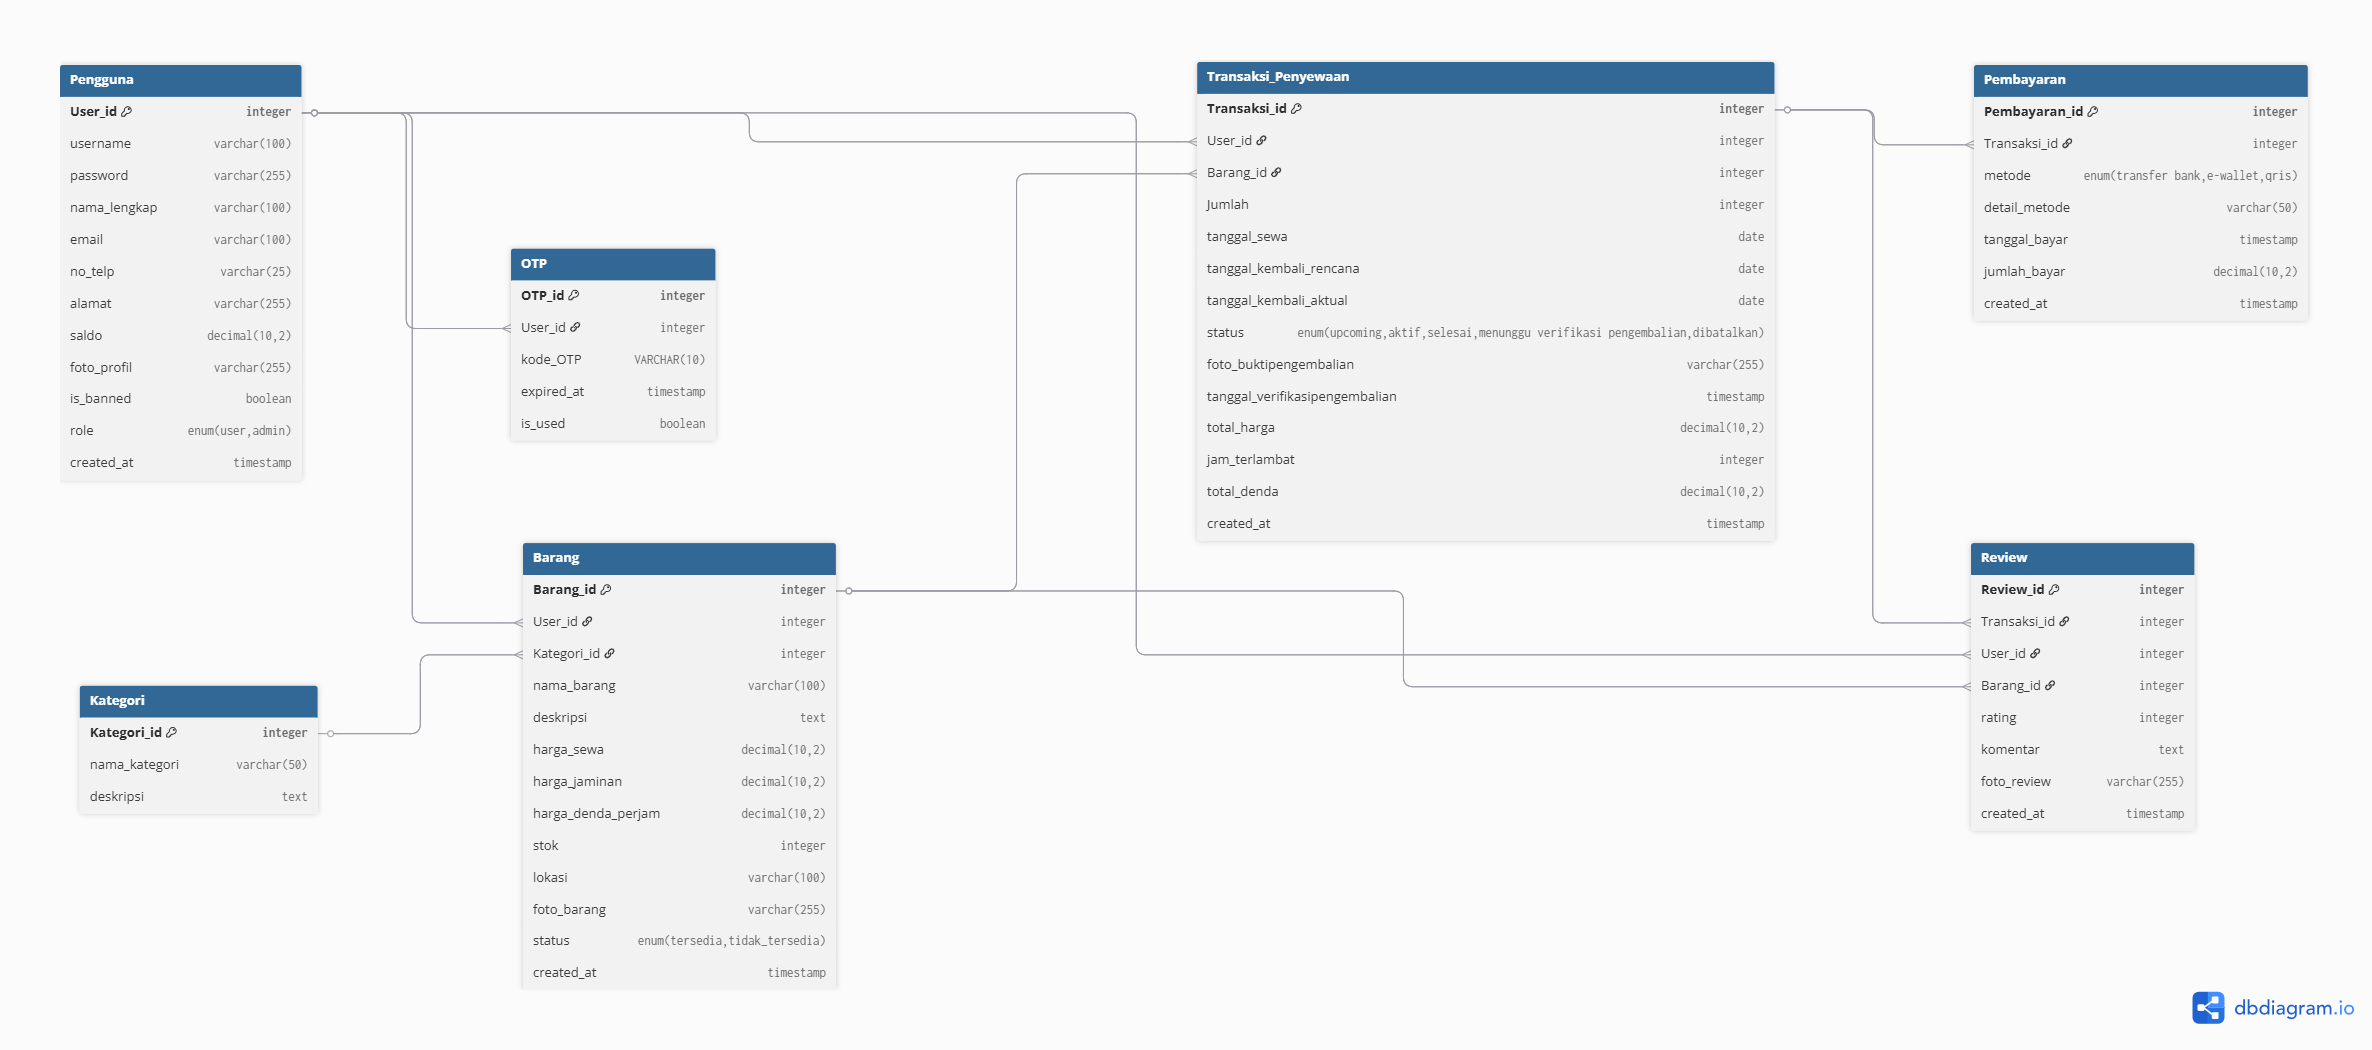
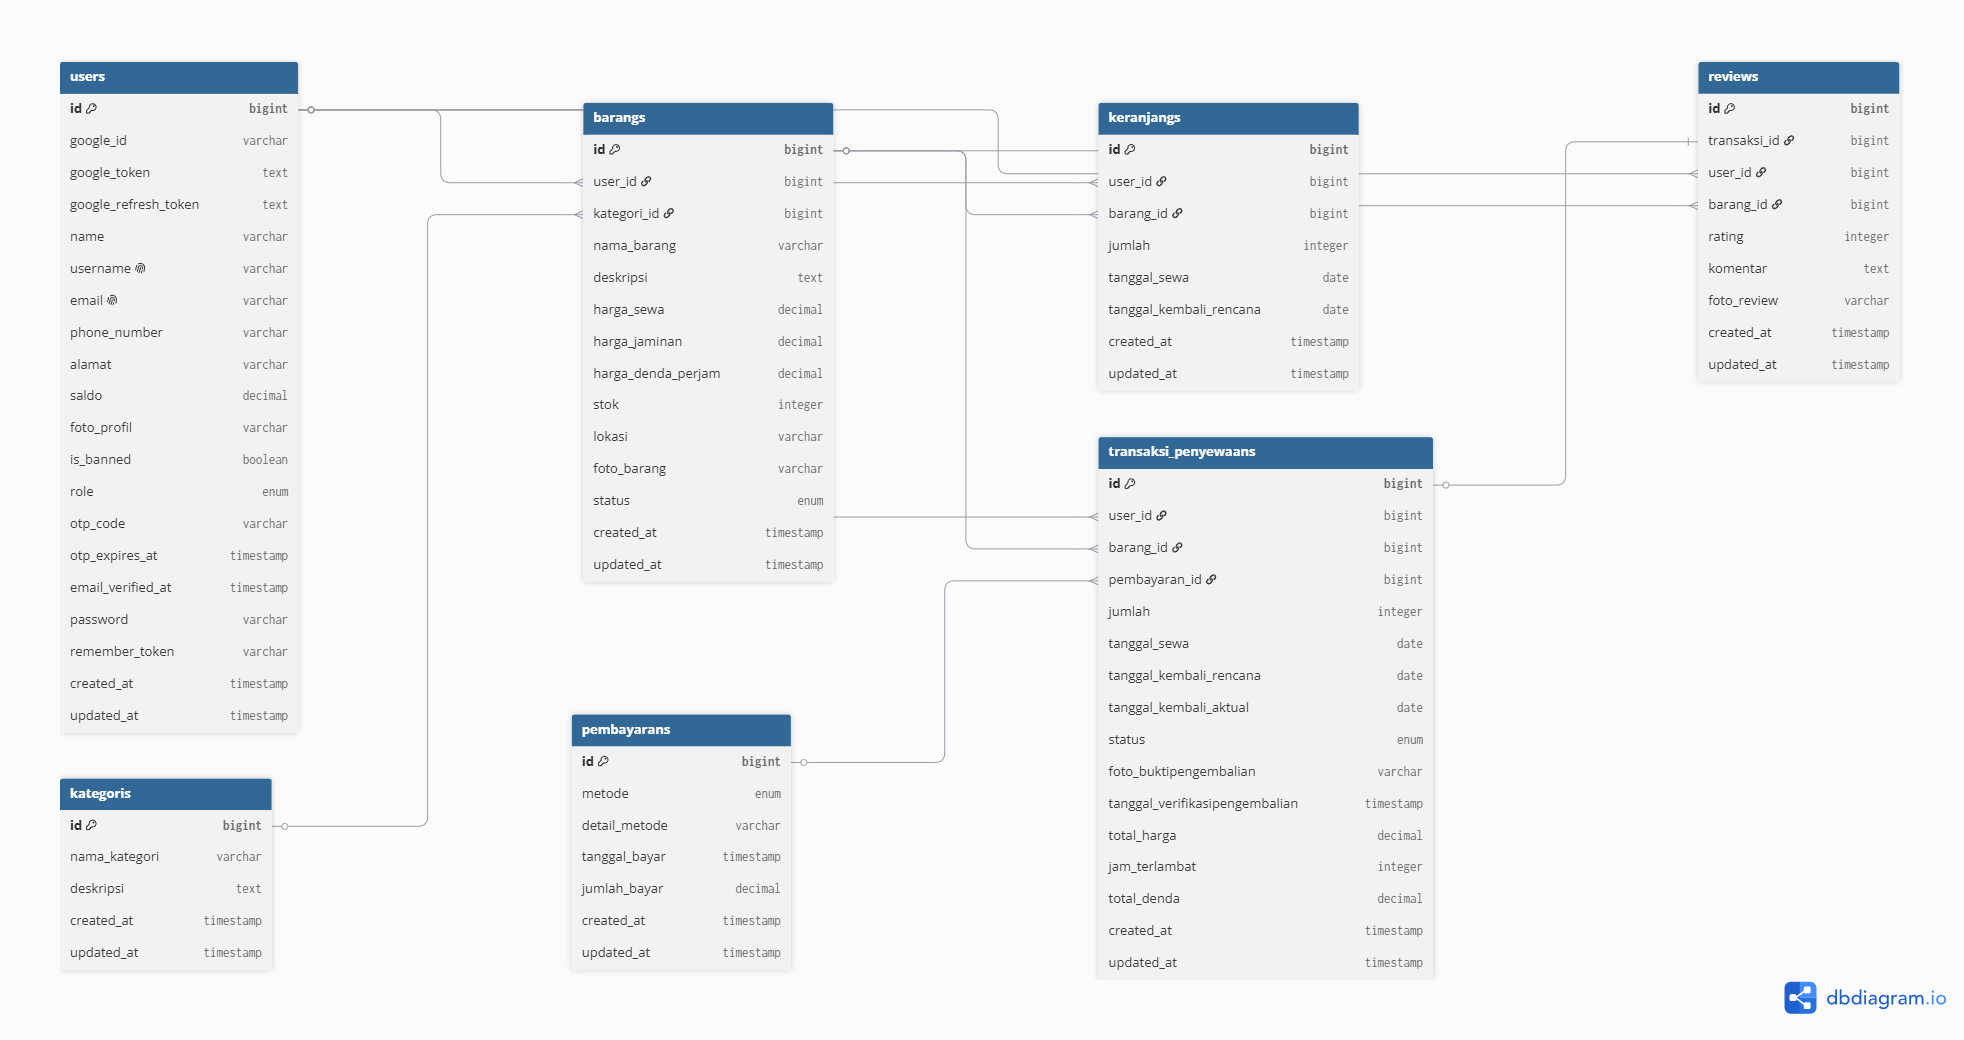
Update ERD and Data Dictionary

diff --git a/docs/data-dictionary.md b/docs/data-dictionary.md
@@ -1,122 +1,163 @@
 # Data Dictionary – Sistem Penyewaan Barang
 
-## Tabel: Pengguna
+---
+
+## Tabel: users
+
+Menyimpan data semua pengguna sistem, termasuk autentikasi Google OAuth dan OTP.
 
 | Kolom | Tipe Data | Constraint | Keterangan |
-|------|----------|-----------|-----------|
-| User_id | INT | PK, AUTO_INCREMENT | ID unik pengguna |
-| username | VARCHAR(100) | NOT NULL | Username pengguna |
-| password | VARCHAR(255) | NOT NULL | Password (hash bcrypt) |
-| nama_lengkap | VARCHAR(100) | NOT NULL | Nama lengkap |
-| email | VARCHAR(100) | UNIQUE, NOT NULL | Email login |
-| no_telp | VARCHAR(25) | NOT NULL | Nomor telepon |
-| alamat | VARCHAR(255) | NOT NULL | Alamat pengguna |
-| saldo | DECIMAL(10,2) | DEFAULT 0 | Saldo simulasi |
-| foto_profil | VARCHAR(255) | NULL | Foto profil |
-| is_banned | BOOLEAN | DEFAULT FALSE | Status banned akun user |
-| role | ENUM | DEFAULT 'user' | Role user/admin |
+|-------|-----------|------------|------------|
+| id | BIGINT | PK, AUTO_INCREMENT | ID unik pengguna |
+| google_id | VARCHAR | NULL | ID akun Google (OAuth) |
+| google_token | TEXT | NULL | Token akses Google OAuth |
+| google_refresh_token | TEXT | NULL | Refresh token Google OAuth |
+| name | VARCHAR | NOT NULL | Nama lengkap pengguna |
+| username | VARCHAR | UNIQUE, NOT NULL | Username pengguna |
+| email | VARCHAR | UNIQUE, NOT NULL | Email login |
+| phone_number | VARCHAR | NOT NULL | Nomor telepon |
+| alamat | VARCHAR | NOT NULL | Alamat pengguna |
+| saldo | DECIMAL | DEFAULT 0 | Saldo simulasi pembayaran |
+| foto_profil | VARCHAR | NULL | Foto profil pengguna |
+| is_banned | BOOLEAN | DEFAULT FALSE | Status banned akun |
+| role | ENUM | DEFAULT 'user' | Role: user / admin |
+| otp_code | VARCHAR | NULL | Kode OTP verifikasi email |
+| otp_expires_at | TIMESTAMP | NULL | Waktu kadaluarsa OTP |
+| email_verified_at | TIMESTAMP | NULL | Waktu verifikasi email |
+| password | VARCHAR | NULL | Password (hash bcrypt); NULL jika login via Google |
+| remember_token | VARCHAR | NULL | Token remember me (session) |
 | created_at | TIMESTAMP | DEFAULT CURRENT_TIMESTAMP | Waktu registrasi |
+| updated_at | TIMESTAMP | DEFAULT CURRENT_TIMESTAMP | Waktu update terakhir |
 
 ---
 
-## Tabel: Kategori
+## Tabel: kategoris
+
+Menyimpan kategori barang yang tersedia untuk disewakan.
 
 | Kolom | Tipe Data | Constraint | Keterangan |
-|------|----------|-----------|-----------|
-| Kategori_id | INT | PK, AUTO_INCREMENT | ID kategori |
-| nama_kategori | VARCHAR(50) | NOT NULL | Nama kategori |
-| deskripsi | TEXT | NULL | Deskripsi |
+|-------|-----------|------------|------------|
+| id | BIGINT | PK, AUTO_INCREMENT | ID unik kategori |
+| nama_kategori | VARCHAR | NOT NULL | Nama kategori barang |
+| deskripsi | TEXT | NULL | Deskripsi kategori |
+| created_at | TIMESTAMP | DEFAULT CURRENT_TIMESTAMP | Waktu data dibuat |
+| updated_at | TIMESTAMP | DEFAULT CURRENT_TIMESTAMP | Waktu update terakhir |
 
 ---
 
-## Tabel: Barang
+## Tabel: barangs
+
+Menyimpan data barang yang ditawarkan untuk disewakan oleh pengguna (pemilik).
 
 | Kolom | Tipe Data | Constraint | Keterangan |
-|------|----------|-----------|-----------|
-| Barang_id | INT | PK, AUTO_INCREMENT | ID barang |
-| User_id | INT | FK, NOT NULL | Pemilik barang |
-| Kategori_id | INT | FK, NOT NULL | Kategori barang |
-| nama_barang | VARCHAR(100) | NOT NULL | Nama barang |
-| deskripsi | TEXT | NOT NULL | Deskripsi |
-| harga_sewa | DECIMAL(10,2) | NOT NULL | Harga sewa |
-| harga_jaminan | DECIMAL(10,2) | NOT NULL | Uang jaminan |
-| harga_denda_perjam | DECIMAL(10,2) | NOT NULL | Denda per jam |
-| stok | INT | DEFAULT 1 | Jumlah stok |
-| lokasi | VARCHAR(100) | NOT NULL | Lokasi (kota) |
-| foto_barang | VARCHAR(255) | NOT NULL | Foto barang |
-| status | ENUM | DEFAULT 'tersedia' | Status barang |
-| created_at | TIMESTAMP | DEFAULT CURRENT_TIMESTAMP | Waktu input |
+|-------|-----------|------------|------------|
+| id | BIGINT | PK, AUTO_INCREMENT | ID unik barang |
+| user_id | BIGINT | FK → users.id, NOT NULL | ID pemilik barang |
+| kategori_id | BIGINT | FK → kategoris.id, NOT NULL | ID kategori barang |
+| nama_barang | VARCHAR | NOT NULL | Nama barang |
+| deskripsi | TEXT | NOT NULL | Deskripsi detail barang |
+| harga_sewa | DECIMAL | NOT NULL | Harga sewa per periode |
+| harga_jaminan | DECIMAL | NOT NULL | Uang jaminan yang dibebankan |
+| harga_denda_perjam | DECIMAL | NOT NULL | Denda keterlambatan per jam |
+| stok | INT | DEFAULT 1 | Jumlah stok tersedia |
+| lokasi | VARCHAR | NOT NULL | Lokasi barang (kota) |
+| foto_barang | VARCHAR | NOT NULL | Path foto barang |
+| status | ENUM | DEFAULT 'tersedia' | Status barang (tersedia/disewa/dll) |
+| created_at | TIMESTAMP | DEFAULT CURRENT_TIMESTAMP | Waktu data dibuat |
+| updated_at | TIMESTAMP | DEFAULT CURRENT_TIMESTAMP | Waktu update terakhir |
 
 ---
 
-## Tabel: Transaksi_Penyewaan
+## Tabel: keranjangs
+
+Menyimpan data keranjang sewa pengguna sebelum transaksi dikonfirmasi. Tabel ini merupakan tambahan baru yang tidak ada di versi sebelumnya.
 
 | Kolom | Tipe Data | Constraint | Keterangan |
-|------|----------|-----------|-----------|
-| Transaksi_id | INT | PK, AUTO_INCREMENT | ID transaksi |
-| User_id | INT | FK, NOT NULL | Penyewa |
-| Barang_id | INT | FK, NOT NULL | Barang |
-| Jumlah | INT | NOT NULL | Jumlah disewa |
-| tanggal_sewa | DATE | NOT NULL | Tanggal mulai |
-| tanggal_kembali_rencana | DATE | NOT NULL | Rencana kembali |
-| tanggal_kembali_aktual | DATE | NULL | Tanggal kembali aktual |
-| status | ENUM | NOT NULL | Status transaksi |
-| foto_buktipengembalian | VARCHAR(255) | NULL | Bukti pengembalian |
-| tanggal_verifikasipengembalian | TIMESTAMP | NULL | Waktu verifikasi owner |
-| total_harga | DECIMAL(10,2) | NOT NULL | Total biaya sewa |
-| jam_terlambat | INT | DEFAULT 0 | Lama keterlambatan |
-| total_denda | DECIMAL(10,2) | DEFAULT 0 | Total denda |
-| created_at | TIMESTAMP | DEFAULT CURRENT_TIMESTAMP | Waktu transaksi |
+|-------|-----------|------------|------------|
+| id | BIGINT | PK, AUTO_INCREMENT | ID unik keranjang |
+| user_id | BIGINT | FK → users.id, NOT NULL | ID pengguna penyewa |
+| barang_id | BIGINT | FK → barangs.id, NOT NULL | ID barang yang dimasukkan |
+| jumlah | INT | NOT NULL | Jumlah barang yang disewa |
+| tanggal_sewa | DATE | NOT NULL | Tanggal mulai sewa yang direncanakan |
+| tanggal_kembali_rencana | DATE | NOT NULL | Tanggal rencana pengembalian |
+| created_at | TIMESTAMP | DEFAULT CURRENT_TIMESTAMP | Waktu data dibuat |
+| updated_at | TIMESTAMP | DEFAULT CURRENT_TIMESTAMP | Waktu update terakhir |
 
 ---
 
-## Tabel: Pembayaran
+## Tabel: pembayarans
+
+Menyimpan data pembayaran atas transaksi penyewaan.
 
 | Kolom | Tipe Data | Constraint | Keterangan |
-|------|----------|-----------|-----------|
-| Pembayaran_id | INT | PK, AUTO_INCREMENT | ID pembayaran |
-| Transaksi_id | INT | FK, UNIQUE, NOT NULL | Relasi ke transaksi |
-| metode | ENUM | NOT NULL | Metode (transfer, e-wallet, QRIS) |
-| detail_metode | VARCHAR(50) | NULL | Detail (BCA, OVO, dll) |
-| tanggal_bayar | TIMESTAMP | NULL | Waktu pembayaran |
-| jumlah_bayar | DECIMAL(10,2) | NOT NULL | Nominal pembayaran |
-| created_at | TIMESTAMP | DEFAULT CURRENT_TIMESTAMP | Waktu pencatatan |
+|-------|-----------|------------|------------|
+| id | BIGINT | PK, AUTO_INCREMENT | ID unik pembayaran |
+| metode | ENUM | NOT NULL | Metode: transfer / e-wallet / QRIS |
+| detail_metode | VARCHAR | NULL | Detail metode (BCA, OVO, dll) |
+| tanggal_bayar | TIMESTAMP | NULL | Waktu pembayaran dilakukan |
+| jumlah_bayar | DECIMAL | NOT NULL | Nominal total pembayaran |
+| created_at | TIMESTAMP | DEFAULT CURRENT_TIMESTAMP | Waktu data dicatat |
+| updated_at | TIMESTAMP | DEFAULT CURRENT_TIMESTAMP | Waktu update terakhir |
 
 ---
 
-## Tabel: Review
+## Tabel: transaksi_penyewaans
+
+Menyimpan data transaksi penyewaan barang. Tabel ini berelasi ke pembayarans melalui FK `pembayaran_id`, sehingga pembayaran dibuat lebih dahulu sebelum transaksi dikonfirmasi.
 
 | Kolom | Tipe Data | Constraint | Keterangan |
-|------|----------|-----------|-----------|
-| Review_id | INT | PK, AUTO_INCREMENT | ID review |
-| Transaksi_id | INT | FK, UNIQUE, NOT NULL | Relasi ke transaksi |
-| User_id | INT | FK, NOT NULL | Pengguna |
-| Barang_id | INT | FK, NOT NULL | Barang |
-| rating | INT | CHECK (1–5), NOT NULL | Nilai rating |
-| komentar | TEXT | NULL | Ulasan |
-| foto_review | VARCHAR(255) | NULL | Foto review |
-| created_at | TIMESTAMP | DEFAULT CURRENT_TIMESTAMP | Waktu review |
+|-------|-----------|------------|------------|
+| id | BIGINT | PK, AUTO_INCREMENT | ID unik transaksi |
+| user_id | BIGINT | FK → users.id, NOT NULL | ID penyewa |
+| barang_id | BIGINT | FK → barangs.id, NOT NULL | ID barang yang disewa |
+| pembayaran_id | BIGINT | FK → pembayarans.id, NOT NULL | ID pembayaran terkait |
+| jumlah | INT | NOT NULL | Jumlah barang yang disewa |
+| tanggal_sewa | DATE | NOT NULL | Tanggal mulai sewa |
+| tanggal_kembali_rencana | DATE | NOT NULL | Rencana tanggal kembali |
+| tanggal_kembali_aktual | DATE | NULL | Tanggal aktual pengembalian |
+| status | ENUM | NOT NULL | Status transaksi (proses/selesai/dll) |
+| foto_buktipengembalian | VARCHAR | NULL | Foto bukti pengembalian barang |
+| tanggal_verifikasipengembalian | TIMESTAMP | NULL | Waktu verifikasi pengembalian oleh owner |
+| total_harga | DECIMAL | NOT NULL | Total biaya sewa |
+| jam_terlambat | INT | DEFAULT 0 | Jumlah jam keterlambatan |
+| total_denda | DECIMAL | DEFAULT 0 | Total denda keterlambatan |
+| created_at | TIMESTAMP | DEFAULT CURRENT_TIMESTAMP | Waktu transaksi dibuat |
+| updated_at | TIMESTAMP | DEFAULT CURRENT_TIMESTAMP | Waktu update terakhir |
 
 ---
 
-## Tabel: OTP
+## Tabel: reviews
+
+Menyimpan ulasan dan rating dari penyewa setelah transaksi selesai.
 
 | Kolom | Tipe Data | Constraint | Keterangan |
-|------|----------|-----------|-----------|
-| OTP_id | INT | PK, AUTO_INCREMENT | ID OTP |
-| User_id | INT | FK, NOT NULL | Relasi ke user |
-| kode_OTP | VARCHAR(10) | NOT NULL | Kode OTP |
-| expired_at | TIMESTAMP | NOT NULL | Waktu kadaluarsa |
-| is_used | BOOLEAN | DEFAULT FALSE | Status penggunaan OTP |
+|-------|-----------|------------|------------|
+| id | BIGINT | PK, AUTO_INCREMENT | ID unik review |
+| transaksi_id | BIGINT | FK → transaksi_penyewaans.id | ID transaksi yang diulas |
+| user_id | BIGINT | FK → users.id, NOT NULL | ID pengguna pemberi review |
+| barang_id | BIGINT | FK → barangs.id, NOT NULL | ID barang yang diulas |
+| rating | INT | CHECK (1–5), NOT NULL | Nilai rating (1–5 bintang) |
+| komentar | TEXT | NULL | Komentar / ulasan teks |
+| foto_review | VARCHAR | NULL | Foto pendukung ulasan |
+| created_at | TIMESTAMP | DEFAULT CURRENT_TIMESTAMP | Waktu review dibuat |
+| updated_at | TIMESTAMP | DEFAULT CURRENT_TIMESTAMP | Waktu update terakhir |
 
 ---
 
-## Relasi Utama
+## Relasi Antar Tabel
 
-- Pengguna → Barang (1 : N)
-- Pengguna → Transaksi_Penyewaan (1 : N)
-- Barang → Transaksi_Penyewaan (1 : N)
-- Kategori → Barang (1 : N)
-- Pengguna → OTP(1 : N)
-- Transaksi_Penyewaan → Pembayaran (1 : 1)
-- Transaksi_Penyewaan → Review (1 : 1)
+| Relasi | Kardinalitas | Keterangan |
+|--------|-------------|------------|
+| users → barangs | 1 : N | Satu pengguna dapat memiliki banyak barang |
+| users → keranjangs | 1 : N | Satu pengguna dapat memiliki banyak item keranjang |
+| users → transaksi_penyewaans | 1 : N | Satu pengguna dapat melakukan banyak transaksi sewa |
+| users → reviews | 1 : N | Satu pengguna dapat memberikan banyak review |
+| kategoris → barangs | 1 : N | Satu kategori memiliki banyak barang |
+| barangs → keranjangs | 1 : N | Satu barang dapat masuk ke banyak keranjang |
+| barangs → transaksi_penyewaans | 1 : N | Satu barang dapat disewa dalam banyak transaksi |
+| barangs → reviews | 1 : N | Satu barang dapat memiliki banyak review |
+| pembayarans → transaksi_penyewaans | 1 : 1 | Satu pembayaran hanya untuk satu transaksi |
+| transaksi_penyewaans → reviews | 1 : 1 | Satu transaksi hanya memiliki satu review |
+
+---
+
